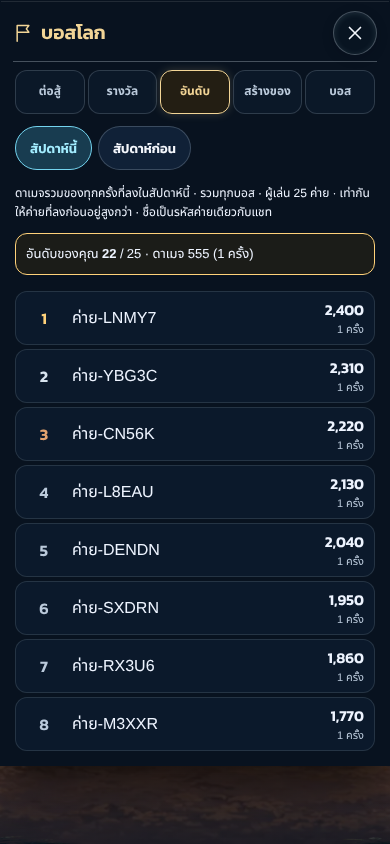
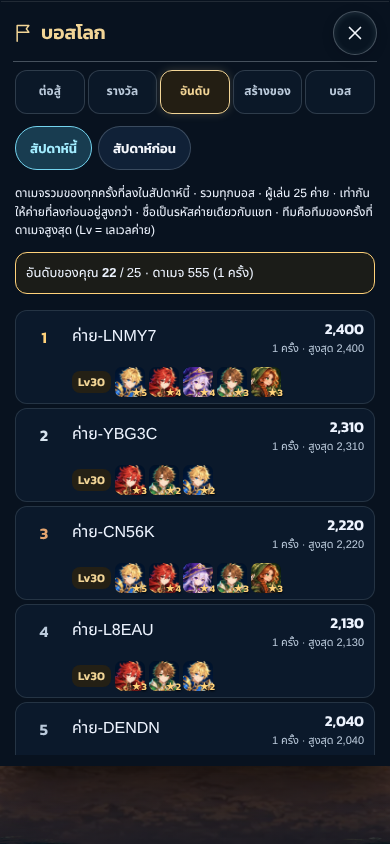
Leaderboard shows each camp's team and camp level
Owner request: every row shows the camp level and the fielded heroes with
stars of the camp's best attempt. The attempt's team now travels with its
hit (account outbox -> World Boss object, new nullable team columns).

Claude-Session: https://claude.ai/code/session_014iPEcLMzTUCpZ3ysPGrpKZ

diff --git a/src/server/world-boss.ts b/src/server/world-boss.ts
@@ -2,7 +2,7 @@ import { weekOf } from '../core/world/board';
 import { WB_BOSSES, type WbBossId, type WorldBossRules } from '../core/world/types';
 import { isWbBoss, MAX_WB_DAMAGE, sharedHpFor, trioLive, trioSharedHp, type WorldBossShared } from '../core/world/world-boss';
 import type { DurableStateLike } from './account-object';
-import { serverDay } from './ledger';
+import { isTeam, serverDay, type HitTeam } from './ledger';
 
 // P11-04 World Boss, part 1 (docs/design/WORLD_BOSS_P11_04_TH.md); P11-05 trio, step 3 (WORLD_BOSS_TRIO_P11_05_TH.md
 // §5). One Durable Object (name `world-boss`) keeps each week's shared HP bars and every attempt that hit them: one bar
@@ -18,7 +18,8 @@ import { serverDay } from './ledger';
 export type BarBoss = WbBossId | 'warden';
 // `accounts`: accounts that hit the bar; `attempts`: hits taken (both feed the next week's HP).
 export interface BossBar { week: number; boss: BarBoss; hp: number; left: number; accounts: number; attempts: number; opened: number }
-export interface Hit { id: string; week: number; account: string; damage: number; boss?: WbBossId }
+// `team` (leaderboard): the camp level and fielded heroes of the attempt, shown beside the camp's rank.
+export interface Hit { id: string; week: number; account: string; damage: number; boss?: WbBossId; team?: HitTeam }
 export interface BossStore {
   // The bars a week has (none before it opens).
   bars(week: number): BossBar[];
@@ -32,7 +33,8 @@ export interface BossStore {
   // attempt's own damage, not only what the bar still had), one bar or all bars; ties go to the earlier first hit.
   board(week: number, boss: BarBoss | undefined, account: string, limit: number): Board;
 }
-export interface BoardRow { account: string; total: number; attempts: number; best: number }
+// `team`: the team of the camp's best attempt in the board's scope (none for hits from before teams were kept).
+export interface BoardRow { account: string; total: number; attempts: number; best: number; team?: HitTeam }
 export interface Board { rows: BoardRow[]; you: (Omit<BoardRow, 'account'> & { rank: number }) | null; players: number }
 export const BOARD_LIMIT = 20;
 export const barOf = (h: Pick<Hit, 'boss'>): BarBoss => h.boss ?? 'warden';
@@ -41,7 +43,7 @@ const HIT_ID = /^[0-9a-f]{32}:w\d{1,6}:a\d{1,2}$/;
 export const isHit = (v: unknown): v is Hit => {
   if (typeof v !== 'object' || v === null) return false;
   const h = v as Record<string, unknown>;
-  return Object.keys(h).length === ('boss' in h ? 5 : 4) && ('boss' in h ? isWbBoss(h.boss) : true)
+  return Object.keys(h).length === 4 + ('boss' in h ? 1 : 0) + ('team' in h ? 1 : 0) && ('boss' in h ? isWbBoss(h.boss) : true) && ('team' in h ? isTeam(h.team) : true)
     && typeof h.id === 'string' && HIT_ID.test(h.id) && Number.isSafeInteger(h.week) && (h.week as number) >= 0
     && typeof h.account === 'string' && h.id.startsWith(`${h.account}:w${h.week}:`) && Number.isSafeInteger(h.damage) && (h.damage as number) >= 1 && (h.damage as number) <= MAX_WB_DAMAGE;
 };
@@ -93,11 +95,12 @@ export class WorldBossHost {
   }
 }
 // The memory store's hits grouped per account like the SQL store's read.
-function aggregate(hits: readonly { account: string; damage: number; at: number }[]): Agg[] {
-  const by = new Map<string, Agg>();
+function aggregate(hits: readonly { account: string; damage: number; at: number; team?: HitTeam }[]): (Agg & { team?: HitTeam })[] {
+  const by = new Map<string, Agg & { team?: HitTeam }>();
   for (const h of hits) {
     const r = by.get(h.account) ?? { account: h.account, damage: 0, n: 0, best: 0, at: h.at };
-    r.damage += h.damage; r.n++; r.best = Math.max(r.best, h.damage); r.at = Math.min(r.at, h.at); by.set(h.account, r);
+    if (h.damage > r.best) { r.best = h.damage; if (h.team) r.team = h.team; else delete r.team; }
+    r.damage += h.damage; r.n++; r.at = Math.min(r.at, h.at); by.set(h.account, r);
   }
   return [...by.values()];
 }
@@ -113,7 +116,7 @@ export function memoryBossStore(): BossStore & { weeks: BossBar[]; hits: (Hit & 
       s.hits.push({ ...hit, applied, at });
     },
     hasAccount: (week: number, boss: BarBoss, account: string) => s.hits.some(x => x.week === week && barOf(x) === boss && x.account === account),
-    board: (week: number, boss: BarBoss | undefined, account: string, limit: number) => rankAgg(aggregate(s.hits.filter(x => x.week === week && (!boss || barOf(x) === boss))), account, limit),
+    board: (week: number, boss: BarBoss | undefined, account: string, limit: number) => { const all = aggregate(s.hits.filter(x => x.week === week && (!boss || barOf(x) === boss))); return rankAgg(all, account, limit, a => all.find(r => r.account === a)?.team); },
   };
   return s;
 }
@@ -132,6 +135,8 @@ function migrate(state: DurableStateLike): void {
     for (const q of SCHEMA) sql.exec(q);
     const cols = new Set(sql.exec<{ name: string }>('PRAGMA table_info(hits)').toArray().map(c => c.name));
     if (!cols.has('boss')) sql.exec("ALTER TABLE hits ADD COLUMN boss TEXT NOT NULL DEFAULT 'warden'");
+    // Leaderboard (2026-11-28): the attempt's team, JSON (older hits have none).
+    if (!cols.has('team')) sql.exec('ALTER TABLE hits ADD COLUMN team TEXT');
     sql.exec('CREATE INDEX IF NOT EXISTS hits_bar_account ON hits (week, boss, account)');
     sql.exec('DROP INDEX IF EXISTS hits_week_account');
     if (sql.exec('PRAGMA table_info(weeks)').toArray().length) {
@@ -143,10 +148,11 @@ function migrate(state: DurableStateLike): void {
 }
 type Agg = { account: string; damage: number; n: number; best: number; at: number };
 // Ranked by total damage, then the earlier first hit, then the account id (stable).
-const rankAgg = (rows: readonly Agg[], account: string, limit: number): Board => {
+// `teamOf` reads the team of a listed camp's best attempt (only the rows shown are read).
+const rankAgg = (rows: readonly Agg[], account: string, limit: number, teamOf: (account: string) => HitTeam | undefined): Board => {
   const all = [...rows].sort((a, b) => b.damage - a.damage || a.at - b.at || (a.account < b.account ? -1 : 1));
   const i = all.findIndex(r => r.account === account), mine = all[i];
-  return { rows: all.slice(0, limit).map(r => ({ account: r.account, total: r.damage, attempts: r.n, best: r.best })), players: all.length,
+  return { rows: all.slice(0, limit).map(r => { const team = teamOf(r.account); return { account: r.account, total: r.damage, attempts: r.n, best: r.best, ...(team ? { team } : {}) }; }), players: all.length,
     you: mine ? { rank: i + 1, total: mine.damage, attempts: mine.n, best: mine.best } : null };
 };
 type BarRow = { week: number; boss: string; hp: number; left_hp: number; accounts: number; attempts: number; opened: number };
@@ -166,7 +172,7 @@ export function sqlBossStore(state: DurableStateLike): BossStore {
     hit(id) { const r = sql.exec<{ applied: number }>('SELECT applied FROM hits WHERE id = ?', id).toArray()[0]; return r ? { applied: r.applied } : null; },
     take(hit, applied, first, at) {
       state.storage.transactionSync(() => {
-        sql.exec('INSERT INTO hits (id, week, account, damage, applied, at, boss) VALUES (?, ?, ?, ?, ?, ?, ?)', hit.id, hit.week, hit.account, hit.damage, applied, at, barOf(hit));
+        sql.exec('INSERT INTO hits (id, week, account, damage, applied, at, boss, team) VALUES (?, ?, ?, ?, ?, ?, ?, ?)', hit.id, hit.week, hit.account, hit.damage, applied, at, barOf(hit), hit.team ? JSON.stringify(hit.team) : null);
         sql.exec('UPDATE bars SET left_hp = left_hp - ?, accounts = accounts + ?, attempts = attempts + 1 WHERE week = ? AND boss = ?', applied, first ? 1 : 0, hit.week, barOf(hit));
       });
     },
@@ -176,7 +182,13 @@ export function sqlBossStore(state: DurableStateLike): BossStore {
       const rows = boss
         ? sql.exec<Agg>('SELECT account, SUM(damage) AS damage, COUNT(*) AS n, MAX(damage) AS best, MIN(at) AS at FROM hits WHERE week = ? AND boss = ? GROUP BY account', week, boss).toArray()
         : sql.exec<Agg>('SELECT account, SUM(damage) AS damage, COUNT(*) AS n, MAX(damage) AS best, MIN(at) AS at FROM hits WHERE week = ? GROUP BY account', week).toArray();
-      return rankAgg(rows, account, limit);
+      const teamOf = (a: string): HitTeam | undefined => {
+        const r = (boss ? sql.exec<{ team: string | null }>('SELECT team FROM hits WHERE week = ? AND boss = ? AND account = ? ORDER BY damage DESC, at, id LIMIT 1', week, boss, a)
+          : sql.exec<{ team: string | null }>('SELECT team FROM hits WHERE week = ? AND account = ? ORDER BY damage DESC, at, id LIMIT 1', week, a)).toArray()[0];
+        if (!r?.team) return undefined;
+        try { const t: unknown = JSON.parse(r.team); return isTeam(t) ? t : undefined; } catch { return undefined; }
+      };
+      return rankAgg(rows, account, limit, teamOf);
     },
   };
 }

diff --git a/src/ui/world-boss-panel.ts b/src/ui/world-boss-panel.ts
@@ -9,7 +9,8 @@ import { SET_IDS, WB_BOSSES, type GearStat, type MapDefinition, type Profile, ty
 import type { SharedBar, SharedBoss, WbBoard, WbBoardBoss, WorldBossStatus } from '../platform/server-client';
 import { bossDescription, bossNames } from './boss-equipment';
 import { icon } from './icons';
-import { setText, slotText, statName, sweepText } from './th';
+import { heroText, setText, slotText, statName, sweepText } from './th';
+import { portrait } from './portraits';
 
 // P11-04 part 2 + P11-05 step 4: the World Boss page of the camp (docs/design/WORLD_BOSS_TRIO_P11_05_TH.md §6) and its camp
 // banner. Pure views of the profile's World Boss book and, in server play, of the shared bars the server reports
@@ -216,10 +217,14 @@ function rankTab(maps: readonly MapDefinition[], day: number, online: boolean, v
   const board = v.board;
   if (board === undefined) return `${picks}<p class="camp-note wb-rank-note" role="status">กำลังโหลดอันดับ…</p>`;
   if (board === null) return `${picks}<p class="camp-note wb-rank-note" role="status">โหลดอันดับไม่ได้ตอนนี้ · ลองเปิดแท็บนี้อีกครั้ง</p>`;
-  const row = (r: WbBoard['rows'][number]) => `<li class="wb-rank-row${r.you ? ' you' : ''}"${r.you ? ' aria-current="true"' : ''}><b class="wb-rank-no" data-top="${r.rank <= 3 ? r.rank : 0}">${r.rank}</b><span class="wb-rank-name">${r.handle}${r.you ? ' <small>(คุณ)</small>' : ''}</span><span class="wb-rank-dmg">${n(r.total)}<small>${r.attempts} ครั้ง</small></span></li>`;
+  // A hero the server names that this build has no art for shows its name instead of a face.
+  const face = (id: string) => { try { return portrait(id); } catch { return `<small>${heroText[id]?.name ?? id}</small>`; } };
+  // The team of the camp's best attempt: camp level, then each fielded hero's face and stars (names for screen readers).
+  const team = (t: WbBoard['rows'][number]['team']) => t ? `<span class="wb-rank-team"><span class="wb-rank-level">Lv${t.level}</span>${t.heroes.map(([id, stars]) => `<span class="wb-rank-hero" title="${heroText[id]?.name ?? id} ★${stars}">${face(id)}<i aria-hidden="true">★${stars}</i></span>`).join('')}<span class="sr-only">ทีม: ${t.heroes.map(([id, stars]) => `${heroText[id]?.name ?? id} ★${stars}`).join(', ')}</span></span>` : '<span class="wb-rank-team"><small>ไม่มีข้อมูลทีม</small></span>';
+  const row = (r: WbBoard['rows'][number]) => `<li class="wb-rank-row${r.you ? ' you' : ''}"${r.you ? ' aria-current="true"' : ''}><b class="wb-rank-no" data-top="${r.rank <= 3 ? r.rank : 0}">${r.rank}</b><span class="wb-rank-name">${r.handle}${r.you ? ' <small>(คุณ)</small>' : ''}</span><span class="wb-rank-dmg">${n(r.total)}<small>${r.attempts} ครั้ง · สูงสุด ${n(r.best)}</small></span>${team(r.team)}</li>`;
   const mine = board.you && !board.rows.some(r => r.you) ? `<p class="wb-rank-you">อันดับของคุณ <b>${board.you.rank.toLocaleString('th-TH')}</b> / ${board.players.toLocaleString('th-TH')} · ดาเมจ ${n(board.you.total)} (${board.you.attempts} ครั้ง)</p>` : '';
   const none = board.you ? '' : `<p class="camp-note">${rank.last ? 'สัปดาห์ก่อนคุณไม่ได้ลงบอสนี้' : 'ยังไม่มีอันดับ · ลงบอสอย่างน้อย 1 ครั้งเพื่อติดอันดับ'}</p>`;
-  return `${picks}<p class="camp-note">ดาเมจรวมของทุกครั้งที่ลงใน${rank.last ? 'สัปดาห์ก่อน' : 'สัปดาห์นี้'} · ${name(rank.boss)} · ผู้เล่น ${board.players.toLocaleString('th-TH')} ค่าย · เท่ากันให้ค่ายที่ลงก่อนอยู่สูงกว่า · ชื่อเป็นรหัสค่ายเดียวกับแชท</p>`
+  return `${picks}<p class="camp-note">ดาเมจรวมของทุกครั้งที่ลงใน${rank.last ? 'สัปดาห์ก่อน' : 'สัปดาห์นี้'} · ${name(rank.boss)} · ผู้เล่น ${board.players.toLocaleString('th-TH')} ค่าย · เท่ากันให้ค่ายที่ลงก่อนอยู่สูงกว่า · ชื่อเป็นรหัสค่ายเดียวกับแชท · ทีมคือทีมของครั้งที่ดาเมจสูงสุด (Lv = เลเวลค่าย)</p>`
     + mine + none + (board.rows.length ? `<ol class="wb-rank-list" aria-label="อันดับดาเมจ">${board.rows.map(row).join('')}</ol>` : '<p class="camp-note">ยังไม่มีใครลงบอสนี้</p>');
 }
 // The body of the World Boss page: the tabs and the open one.

diff --git a/src/server/account-object.ts b/src/server/account-object.ts
@@ -3,7 +3,7 @@ import type { CloudSaveUpload } from '../core/cloud/cloud-save';
 import type { Game } from '../core/save/expedition-save';
 import { sha256Hex } from './accounts';
 import type { RateLimiter } from './rate-limit';
-import type { LedgerRow } from './ledger';
+import { isTeam, type HitTeam, type LedgerRow } from './ledger';
 import { isWbBoss, type WorldBossShared } from '../core/world/world-boss';
 import { OTHER_DEVICE, type GameHost, type HostState, type HostStore, type ImportRecord, type LogEntry, type Snapshot } from './game-host';
 
@@ -43,7 +43,9 @@ const SCHEMA = [
 // Columns added after a table was first made (an object created earlier gets them on its next start): the log's after
 // P09-02b; P11-05 the trio boss of a hit and the boss shards a payout recorded.
 const ADDED_COLUMNS: readonly [string, string, string][] = [['log', 'day', 'INTEGER'], ['log', 'refused', 'TEXT'], ['log', 'boss', 'TEXT'],
-  ['wb_hits', 'boss', 'TEXT'], ['reward_ledger', 'boss', 'TEXT'], ['reward_ledger', 'shards', 'INTEGER'], ['reward_ledger', 'detail', 'TEXT']];
+  ['wb_hits', 'boss', 'TEXT'], ['wb_hits', 'team', 'TEXT'], ['reward_ledger', 'boss', 'TEXT'], ['reward_ledger', 'shards', 'INTEGER'], ['reward_ledger', 'detail', 'TEXT']];
+// A stored team that is missing or no longer well-formed is left off the hit (the leaderboard then shows none).
+const parseTeam = (raw: string | null): HitTeam | undefined => { if (!raw) return undefined; try { const t: unknown = JSON.parse(raw); return isTeam(t) ? t : undefined; } catch { return undefined; } };
 const STATE_UPSERT = 'INSERT INTO state (id, game, book, updated_at) VALUES (1, ?, ?, ?) ON CONFLICT(id) DO UPDATE SET game = excluded.game, book = excluded.book, updated_at = excluded.updated_at';
 const SNAPSHOT_UPSERT = 'INSERT INTO snapshots (seq, game, origin, at) VALUES (?, ?, ?, ?) ON CONFLICT(seq) DO UPDATE SET game = excluded.game, origin = excluded.origin, at = excluded.at';
 const gameText = (game: Game | null) => game ? JSON.stringify(game) : null;
@@ -74,7 +76,7 @@ export function sqlStore(state: DurableStateLike): HostStore {
         sql.exec(STATE_UPSERT, gameText(next.game), JSON.stringify(next.book), e.at);
         sql.exec('INSERT INTO log (seq, request_id, command, seeds, status, content_version, at, day, refused, boss) VALUES (?, ?, ?, ?, ?, ?, ?, ?, ?, ?)',
           e.seq, e.requestId, JSON.stringify(e.command), JSON.stringify(e.seeds), e.status, e.contentVersion, e.at, e.day ?? null, e.refused ?? null, e.boss ? JSON.stringify(e.boss) : null);
-        for (const h of hits) sql.exec('INSERT INTO wb_hits (id, week, damage, sent, at, boss) VALUES (?, ?, ?, 0, ?, ?)', h.id, h.week, h.damage, e.at, h.boss ?? null);
+        for (const h of hits) sql.exec('INSERT INTO wb_hits (id, week, damage, sent, at, boss, team) VALUES (?, ?, ?, 0, ?, ?, ?)', h.id, h.week, h.damage, e.at, h.boss ?? null, h.team ? JSON.stringify(h.team) : null);
         if (snapshot) sql.exec(SNAPSHOT_UPSERT, snapshot.seq, gameText(snapshot.game), snapshot.origin, snapshot.at);
         // A receipt that exists already fails the INSERT and rolls the whole command back.
         for (const r of ledger) sql.exec('INSERT INTO reward_ledger (receipt, seq, kind, period, ref, reward, day, at, boss, shards, detail) VALUES (?, ?, ?, ?, ?, ?, ?, ?, ?, ?, ?)',
@@ -83,8 +85,8 @@ export function sqlStore(state: DurableStateLike): HostStore {
       cached = copy(next);
     },
     pendingHits() {
-      return sql.exec<{ id: string; week: number; damage: number; boss: string | null }>('SELECT id, week, damage, boss FROM wb_hits WHERE sent = 0 ORDER BY at, id LIMIT 64').toArray()
-        .map(r => ({ id: r.id, week: r.week, damage: r.damage, ...(r.boss && isWbBoss(r.boss) ? { boss: r.boss } : {}) }));
+      return sql.exec<{ id: string; week: number; damage: number; boss: string | null; team: string | null }>('SELECT id, week, damage, boss, team FROM wb_hits WHERE sent = 0 ORDER BY at, id LIMIT 64').toArray()
+        .map(r => { const team = parseTeam(r.team); return { id: r.id, week: r.week, damage: r.damage, ...(r.boss && isWbBoss(r.boss) ? { boss: r.boss } : {}), ...(team ? { team } : {}) }; });
     },
     markHits(ids) { for (const id of ids) sql.exec('UPDATE wb_hits SET sent = 1 WHERE id = ?', id); },
     hasReceipt(receipt) { return sql.exec('SELECT 1 FROM reward_ledger WHERE receipt = ?', receipt).toArray().length > 0; },

diff --git a/tests/world-boss-board.test.ts b/tests/world-boss-board.test.ts
@@ -15,14 +15,15 @@ const rules = gameRules.worldBoss;
 const D = 20_773, W = weekOf(D), HOUR = 3_600_000, DAY_MS = 24 * HOUR;
 const midnight = (d: number) => d * DAY_MS - GAME_DAY_OFFSET_MINUTES * 60_000;
 const A = 'a'.repeat(32), B = 'b'.repeat(32), C = 'c'.repeat(32), E = 'e'.repeat(32);
-const hit = (acc: string, n: number, damage: number, boss?: WbBossId, week = W) => ({ id: `${acc}:w${week}:a${n}`, week, account: acc, damage, ...(boss ? { boss } : {}) });
+const hit = (acc: string, n: number, damage: number, boss?: WbBossId, week = W, team?: { level: number; heroes: [string, number][] }) => ({ id: `${acc}:w${week}:a${n}`, week, account: acc, damage, ...(boss ? { boss } : {}), ...(team ? { team } : {}) });
+const T1 = { level: 12, heroes: [['guardian', 3], ['tracer', 2]] as [string, number][] }, T2 = { level: 14, heroes: [['healer', 5]] as [string, number][] };
 
 function play(store: BossStore, clock: { t: number }) {
   const host = new WorldBossHost(store, rules, () => clock.t);
   // A deals 300 then 200 (500), B 500 in one hit later (ties with A: A hit first), C 900; E never plays.
-  host.contribute([hit(A, 1, 300)]); clock.t += 1000;
+  host.contribute([hit(A, 1, 300, undefined, W, T1)]); clock.t += 1000;
   host.contribute([hit(B, 1, 500)]); clock.t += 1000;
-  host.contribute([hit(A, 2, 200), hit(C, 1, 900)]); clock.t += 1000;
+  host.contribute([hit(A, 2, 200, undefined, W, T2), hit(C, 1, 900, undefined, W, T2)]); clock.t += 1000;
   // A resend counts once.
   host.contribute([hit(A, 1, 300)]);
   return host;
@@ -34,7 +35,7 @@ describe('World Boss leaderboard: ranking', () => {
       const clock = { t: midnight(D) + HOUR }; const host = play(make(), clock);
       const board = host.board(W, undefined, A)!;
       expect(board.rows).toEqual([
-        { account: C, total: 900, attempts: 1, best: 900 }, { account: A, total: 500, attempts: 2, best: 300 }, { account: B, total: 500, attempts: 1, best: 500 },
+        { account: C, total: 900, attempts: 1, best: 900, team: T2 }, { account: A, total: 500, attempts: 2, best: 300, team: T1 }, { account: B, total: 500, attempts: 1, best: 500 },
       ]);
       expect(board).toMatchObject({ week: W, players: 3, you: { rank: 2, total: 500, attempts: 2, best: 300 } });
       expect(host.board(W, undefined, E)!.you).toBeNull();
@@ -86,5 +87,21 @@ describe('World Boss leaderboard: /v1/worldboss/board', () => {
     expect((await call(s, '/v1/worldboss/board?boss=nobody', { headers: headers(me.token) })).status).toBe(400);
     expect(await (await call(s, '/v1/worldboss/board?last=1', { headers: headers(me.token) })).json()).toMatchObject({ week: W - 1, players: 0, rows: [], you: null });
     expect((await call(s, '/v1/worldboss/board', { headers: { [CONTENT_HEADER]: VERSION } })).status).toBe(401);
+  });
+});
+
+describe('World Boss leaderboard: teams', () => {
+  it('the object refuses a malformed team; a hit without one is still taken', () => {
+    const host = new WorldBossHost(memoryBossStore(), rules, () => midnight(D) + HOUR);
+    const bad = [{ level: 0, heroes: [['guardian', 1]] }, { level: 5, heroes: [] }, { level: 5, heroes: [['Guardian!', 1]] }, { level: 5, heroes: Array(6).fill(['guardian', 1]) }, { level: 5, heroes: [['guardian', 1]], extra: 1 }];
+    return Promise.all(bad.map(async team => expect((await handleBossRequest(host, new Request('https://boss/contribute', { method: 'POST', body: JSON.stringify({ hits: [{ ...hit(A, 1, 10), team }] }) }))).status).toBe(400)))
+      .then(async () => expect((await handleBossRequest(host, new Request('https://boss/contribute', { method: 'POST', body: JSON.stringify({ hits: [hit(A, 1, 10, undefined, W, T1)] }) }))).status).toBe(200));
+  });
+  it('an object from before teams gains the column and keeps its hits (no team)', () => {
+    const state = fakeDurableState(); const clock = { t: midnight(D) + HOUR };
+    const first = new WorldBossHost(sqlBossStore(state), rules, () => clock.t); first.contribute([hit(A, 1, 300)]);
+    state.storage.sql.exec('ALTER TABLE hits DROP COLUMN team');
+    const again = new WorldBossHost(sqlBossStore(state), rules, () => clock.t); again.contribute([hit(B, 1, 400, undefined, W, T1)]);
+    expect(again.board(W, undefined, A)!.rows).toEqual([{ account: B, total: 400, attempts: 1, best: 400, team: T1 }, { account: A, total: 300, attempts: 1, best: 300 }]);
   });
 });

diff --git a/tests/world-boss-trio-server.test.ts b/tests/world-boss-trio-server.test.ts
@@ -7,6 +7,7 @@ import { canonicalJson, emptyBook, type CommandReply } from '../src/core/command
 import { SAVE_VERSION, type Game } from '../src/core/save/expedition-save';
 import { weekOf } from '../src/core/world/board';
 import { newProfile } from '../src/core/world/profile';
+import { levelOf } from '../src/core/world/world';
 import type { MapDefinition, Profile, WbBossId } from '../src/core/world/types';
 import { trioSharedHp, wbEncounter } from '../src/core/world/world-boss';
 import { HITS_HEADER, SESSION_HEADER, sqlStore } from '../src/server/account-object';
@@ -134,7 +135,8 @@ describe('P11-05 trio on the account object', () => {
     const two = send(attemptCmd(cur(), 'valdrakk')) as Applied;
     expect(two.receipts).toEqual([`wb:w${W}:a2`, `wb:w${W}:p-2`]);
     const damage = (r: Applied) => (r.events.find(e => e.type === 'wbAttempt') as unknown as { damage: number }).damage;
-    expect(store.pendingHits()).toEqual([{ id: `w${W}:a1`, week: W, damage: damage(one), boss: 'kragmor' }, { id: `w${W}:a2`, week: W, damage: damage(two), boss: 'valdrakk' }]);
+    const team = expect.objectContaining({ heroes: expect.any(Array) });
+    expect(store.pendingHits()).toEqual([{ id: `w${W}:a1`, week: W, damage: damage(one), boss: 'kragmor', team }, { id: `w${W}:a2`, week: W, damage: damage(two), boss: 'valdrakk', team }]);
     // The warden's bar or another boss's never pays a trio milestone.
     expect(send({ kind: 'claimWorldBoss', id: 'kragmor:s-50', week: W }, { week: W, hp: 1500, left: 0 })).toMatchObject({ status: 'rejected', reason: 'expired' });
     expect(send({ kind: 'claimWorldBoss', id: 'kragmor:s-50', week: W }, { week: W, hp: 1500, left: 0, boss: 'valdrakk' })).toMatchObject({ status: 'rejected', reason: 'expired' });
@@ -171,7 +173,7 @@ describe('P11-05 trio on the account object', () => {
     const h = new GameHost(store, LIVE_CTX, () => 3, VERSION, () => midnight(D) + HOUR);
     const cmd = attemptCmd(game, 'morvane');
     expect(h.command({ requestId: 'req-0000000000000001', seq: 1, command: cmd }, sha(cmd)).body).toMatchObject({ status: 'applied' });
-    expect(store.pendingHits()).toEqual([expect.objectContaining({ id: `w${W}:a1`, boss: 'morvane' })]);
+    expect(store.pendingHits()).toEqual([expect.objectContaining({ id: `w${W}:a1`, boss: 'morvane', team: expect.objectContaining({ level: expect.any(Number) }) })]);
   });
 });
 
@@ -213,6 +215,10 @@ describe('P11-05 trio through the Worker', () => {
     expect(r.status).toBe('applied');
     const dmg = (r.events.find(e => e.type === 'wbAttempt') as unknown as { damage: number }).damage;
     expect(left(await status(s, p.token))).toEqual({ kragmor: trio.hp.min, valdrakk: Math.max(0, trio.hp.min - dmg), morvane: trio.hp.min });
+    // Leaderboard (2026-11-28): the hit carried the attempt's team (camp level and fielded heroes with stars) to the board.
+    const g0 = storedGame(s, p.accountId)!;
+    const board = await (await call(s, '/v1/worldboss/board?boss=valdrakk', { headers: headers(p.token) })).json() as { rows: { you: boolean; total: number; team: unknown }[] };
+    expect(board.rows).toEqual([expect.objectContaining({ you: true, total: dmg, team: { level: levelOf(LIVE[0]!, g0.profile), heroes: g0.profile.party.deployed.map(id => [id, g0.profile.members[id]!.stars]) } })]);
     // A second account takes Valdrakk past half: the claim pays from Valdrakk's bar, not from Kragmor's.
     s.boss.host.contribute([{ id: `${'f'.repeat(32)}:w${W}:a1`, week: W, account: 'f'.repeat(32), damage: trio.hp.min, boss: 'valdrakk' }]);
     expect(await p.send({ kind: 'claimWorldBoss', id: 'kragmor:s-50', week: W })).toMatchObject({ status: 'rejected' });

diff --git a/src/server/ledger.ts b/src/server/ledger.ts
@@ -1,5 +1,6 @@
 import type { ClientEvent } from '../core/command/client-view';
-import type { GachaEntry, SweepReward, WbBossId } from '../core/world/types';
+import type { GachaEntry, MapDefinition, Profile, SweepReward, WbBossId } from '../core/world/types';
+import { levelOf } from '../core/world/world';
 
 // P09 reward ledger (docs/design/p09/LEDGER_P09_TH.md). Online, the server owns the calendar: it stamps its own day on
 // `sweep`, `claimBoard` and `depart` (the device's day is refused) and writes each payout of a sweep or a quest-board
@@ -57,7 +58,22 @@ export function ledgerRows(events: readonly ClientEvent[], sweepCount: number, d
 // P11-04: an attempt's hit on the shared HP, waiting in the account's outbox until the World Boss object has taken it.
 // `id` is local to the account (`w<week>:a<attempt>`); the Worker prefixes the account id. `boss` (P11-05): the trio boss
 // whose bar it hits (missing: the warden).
-export interface PendingHit { id: string; week: number; damage: number; boss?: WbBossId }
-export function hitsOf(events: readonly ClientEvent[]): PendingHit[] {
-  return events.flatMap(e => e.type === 'wbAttempt' ? [{ id: `w${e.week}:a${e.attempt}`, week: e.week, damage: e.damage, ...(e.boss ? { boss: e.boss } : {}) }] : []);
+// `team` (leaderboard, owner 2026-11-28 “เห็นรายละเอียดของทีมที่ใช้ เลเวลทีม”): the camp level and the fielded heroes with
+// their stars when the attempt was fought (the World Boss fields the camp's deployed team).
+export interface HitTeam { level: number; heroes: [string, number][] }
+export interface PendingHit { id: string; week: number; damage: number; boss?: WbBossId; team?: HitTeam }
+export function teamOf(profile: Profile, home: Pick<MapDefinition, 'progression'>): HitTeam {
+  return { level: levelOf(home, profile), heroes: profile.party.deployed.map(id => [id, profile.members[id]?.stars ?? 1]) };
+}
+export const MAX_TEAM = 5;
+export const isTeam = (v: unknown): v is HitTeam => {
+  if (typeof v !== 'object' || v === null) return false;
+  const t = v as Record<string, unknown>;
+  return Object.keys(t).length === 2 && Number.isSafeInteger(t.level) && (t.level as number) >= 1 && (t.level as number) <= 999
+    && Array.isArray(t.heroes) && t.heroes.length >= 1 && t.heroes.length <= MAX_TEAM
+    && t.heroes.every(h => Array.isArray(h) && h.length === 2 && typeof h[0] === 'string' && /^[a-z]{1,24}$/.test(h[0]) && Number.isSafeInteger(h[1]) && h[1] >= 1 && h[1] <= 20);
+};
+export function hitsOf(events: readonly ClientEvent[], profile?: Profile, home?: Pick<MapDefinition, 'progression'>): PendingHit[] {
+  const team = profile && home ? teamOf(profile, home) : undefined;
+  return events.flatMap(e => e.type === 'wbAttempt' ? [{ id: `w${e.week}:a${e.attempt}`, week: e.week, damage: e.damage, ...(e.boss ? { boss: e.boss } : {}), ...(team ? { team } : {}) }] : []);
 }

diff --git a/tests/browser/world-boss-board.spec.ts b/tests/browser/world-boss-board.spec.ts
@@ -49,13 +49,17 @@ test('rank tab: top camps by damage, the player marked, their rank past the list
   const me = [...s.objects.keys()][0]!, week = s.boss.host.week();
   // 24 other camps hit this week; the player sits 22nd (past the top 20).
   const others = Array.from({ length: 24 }, (_, i) => (i + 1).toString(16).padStart(32, '0'));
-  s.boss.host.contribute(others.map((acc, i) => ({ id: `${acc}:w${week}:a1`, week, account: acc, damage: 2400 - i * 90 })));
-  s.boss.host.contribute([{ id: `${me}:w${week}:a1`, week, account: me, damage: 2400 - 21 * 90 + 45 }]);
+  const squads: [string, number][][] = [[['guardian', 5], ['tracer', 4], ['weaver', 4], ['healer', 3], ['mira', 3]], [['tracer', 3], ['healer', 2], ['guardian', 2]]];
+  s.boss.host.contribute(others.map((acc, i) => ({ id: `${acc}:w${week}:a1`, week, account: acc, damage: 2400 - i * 90, ...(i < 23 ? { team: { level: 30 - (i >> 2), heroes: squads[i % 2]! } } : {}) })));
+  s.boss.host.contribute([{ id: `${me}:w${week}:a1`, week, account: me, damage: 2400 - 21 * 90 + 45, team: { level: 10, heroes: [['guardian', 1], ['tracer', 1], ['weaver', 1], ['healer', 1]] } }]);
   await page.locator('#lobby-wboss').click();
   await page.locator('#wb-tab-rank').click();
   const rows = page.locator('.wb-rank-row');
   await expect(rows).toHaveCount(20);
   await expect(rows.first()).toContainText('ค่าย-'); await expect(rows.first()).toContainText('2,400');
+  // Each row shows the team of the camp's best attempt: camp level and the fielded heroes' faces with stars.
+  await expect(rows.first().locator('.wb-rank-level')).toHaveText('Lv30'); await expect(rows.first().locator('.wb-rank-hero')).toHaveCount(5);
+  await expect(rows.first().locator('.wb-rank-hero').first()).toContainText('★5'); await expect(rows.first().locator('.sr-only')).toContainText('ทีม:');
   await expect(page.locator('.wb-rank-you')).toContainText('อันดับของคุณ 22 / 25');
   for (const id of ['wb-tab-rank', 'wb-rank-week', 'wb-rank-last']) expect((await page.locator(`#${id}`).boundingBox())!.height).toBeGreaterThanOrEqual(44);
   expect(await page.locator('#lobby-view').evaluate(el => el.scrollWidth <= el.clientWidth)).toBe(true);

diff --git a/src/server/api.ts b/src/server/api.ts
@@ -229,7 +229,7 @@ async function deliverHits(deps: ApiDeps, accountId: string, game: AccountGame, 
   out.headers.delete(HITS_HEADER);
   if (!deps.boss) return out;
   try {
-    const hits = (JSON.parse(raw) as PendingHit[]).map(h => ({ id: `${accountId}:${h.id}`, week: h.week, account: accountId, damage: h.damage, ...(h.boss ? { boss: h.boss } : {}) }));
+    const hits = (JSON.parse(raw) as PendingHit[]).map(h => ({ id: `${accountId}:${h.id}`, week: h.week, account: accountId, damage: h.damage, ...(h.boss ? { boss: h.boss } : {}), ...(h.team ? { team: h.team } : {}) }));
     const r = await deps.boss.fetch(new Request('https://boss/contribute', { method: 'POST', body: JSON.stringify({ hits }), headers: { 'Content-Type': 'application/json' } }));
     if (r.ok) {
       const { taken } = await r.json() as { taken: string[] };
@@ -261,7 +261,7 @@ async function worldBossBoardRoute(request: Request, accountId: string, deps: Ap
   const res = await deps.boss.fetch(new Request(`https://boss/board?account=${accountId}&boss=${boss}${last ? '&last=1' : ''}`)).catch(() => null);
   if (!res?.ok) return error('world_boss_unavailable', 503);
   const board = await res.json() as Board & { week: number };
-  const rows = await Promise.all(board.rows.map(async (r, i) => ({ rank: i + 1, handle: await chatHandle(r.account), total: r.total, attempts: r.attempts, best: r.best, you: r.account === accountId })));
+  const rows = await Promise.all(board.rows.map(async (r, i) => ({ rank: i + 1, handle: await chatHandle(r.account), total: r.total, attempts: r.attempts, best: r.best, you: r.account === accountId, ...(r.team ? { team: r.team } : {}) })));
   return json({ week: board.week, boss, players: board.players, rows, you: board.you });
 }
 

diff --git a/src/server/game-host.ts b/src/server/game-host.ts
@@ -130,7 +130,7 @@ export class GameHost {
         this.store.commit({ game: next, book: { lastSeq: out.book.lastSeq, recent } }, {
           seq, requestId: request.requestId, command: request.command, seeds: seeds.used,
           status: reply.status, contentVersion: this.contentVersion, at, day, ...(refused ? { refused } : {}), ...(claim ? { boss: claim } : {}),
-        }, snapshot, refused ? [] : rows, !refused && reply.status === 'applied' ? hitsOf(reply.events) : []);
+        }, snapshot, refused ? [] : rows, !refused && reply.status === 'applied' ? hitsOf(reply.events, next?.profile, this.ctx.home) : []);
         const telemetry = reply.status === 'applied' ? telemetryOf(game, next, reply.events) : [];
         return { status: 200, body: reply, replayed: false, telemetry };
       }
@@ -226,7 +226,7 @@ export function memoryStore(): HostStore & { state: HostState | null; log: LogEn
       s.state = structuredClone(state); s.log.push(structuredClone(entry)); if (snapshot) s.snapshots.push(structuredClone(snapshot));
       s.rows.push(...structuredClone([...ledger])); s.hits.push(...hits.map(h => ({ ...h, sent: false })));
     },
-    pendingHits: () => s.hits.filter(h => !h.sent).map(h => ({ id: h.id, week: h.week, damage: h.damage, ...(h.boss ? { boss: h.boss } : {}) })),
+    pendingHits: () => s.hits.filter(h => !h.sent).map(h => ({ id: h.id, week: h.week, damage: h.damage, ...(h.boss ? { boss: h.boss } : {}), ...(h.team ? { team: h.team } : {}) })),
     markHits: (ids: readonly string[]) => { for (const h of s.hits) if (ids.includes(h.id)) h.sent = true; },
     hasReceipt: (receipt: string) => s.rows.some(r => r.receipt === receipt),
     ledger: () => structuredClone(s.rows),

diff --git a/src/platform/server-client.ts b/src/platform/server-client.ts
@@ -76,7 +76,8 @@ export interface SharedBar extends SharedBoss { boss: 'warden' | 'kragmor' | 'va
 export interface WorldBossStatus { week: number; current: SharedBoss | null; last: SharedBoss | null; bars?: SharedBar[]; lastBars?: SharedBar[] }
 // World Boss leaderboard (owner 2026-11-28): `GET /v1/worldboss/board?boss=&last=1`; handles only, `you` = this account.
 export type WbBoardBoss = 'all' | SharedBar['boss'];
-export interface WbBoardRow { rank: number; handle: string; total: number; attempts: number; best: number; you: boolean }
+// `team`: camp level and fielded heroes (id, stars) of the camp's best attempt (none for attempts before 2026-11-28).
+export interface WbBoardRow { rank: number; handle: string; total: number; attempts: number; best: number; you: boolean; team?: { level: number; heroes: [string, number][] } }
 export interface WbBoard { week: number; boss: WbBoardBoss; players: number; rows: WbBoardRow[]; you: { rank: number; total: number; attempts: number; best: number } | null }
 // P11 chat (docs/design/CHAT_P11_TH.md).
 export interface ChatMessage { id: number; handle: string; text: string; at: number; mine: boolean }

diff --git a/src/ui/camp-layout.css b/src/ui/camp-layout.css
@@ -158,3 +158,9 @@
 #lobby-view .wb-rank-dmg { display:grid; justify-items:end; font:600 15px var(--font-heading, Kanit), sans-serif; }
 #lobby-view .wb-rank-dmg small { font:400 11px var(--font-body, 'Noto Sans Thai'), sans-serif; color:var(--text-muted, #b9c8d8); }
 #lobby-view .wb-rank-you { margin:8px 0; padding:10px; border-radius:12px; border:1px solid #ffd27a; background:#3a2c1066; }
+#lobby-view .wb-rank-row { grid-template-rows:auto auto; }
+#lobby-view .wb-rank-team { grid-column:2 / -1; display:flex; flex-wrap:wrap; align-items:center; gap:4px; }
+#lobby-view .wb-rank-level { font:600 12px var(--font-heading, Kanit), sans-serif; color:var(--gold-light, #ffe3a1); padding:2px 6px; border-radius:8px; background:#2a2210cc; }
+#lobby-view .wb-rank-hero { position:relative; display:inline-grid; }
+#lobby-view .wb-rank-hero .portrait { width:30px; height:30px; }
+#lobby-view .wb-rank-hero i { position:absolute; right:-2px; bottom:-3px; font:700 10px var(--font-heading, Kanit), sans-serif; font-style:normal; color:#ffd27a; text-shadow:0 1px 2px #000; }

diff --git a/tests/world-boss-p11.test.ts b/tests/world-boss-p11.test.ts
@@ -176,7 +176,7 @@ describe('P11-04 World Boss on the server', () => {
     const first = s.send(cmd); const reply = body(first.answer) as Extract<CommandReply, { status: 'applied' }>;
     expect(reply.status).toBe('applied'); expect(reply.receipts).toEqual([`wb:w${W}:a1`]);
     const ev = reply.events.find(e => e.type === 'wbAttempt') as unknown as { damage: number };
-    expect(s.store.pendingHits()).toEqual([{ id: `w${W}:a1`, week: W, damage: ev.damage }]);
+    expect(s.store.pendingHits()).toEqual([{ id: `w${W}:a1`, week: W, damage: ev.damage, team: expect.objectContaining({ level: expect.any(Number) }) }]);
     // A new request repeating the attempt number is refused as stale.
     expect(body(s.send(cmd).answer)).toMatchObject({ status: 'rejected', reason: 'stale' });
     // Retry after midnight of the next week: the same stored answer; no second receipt or hit.
